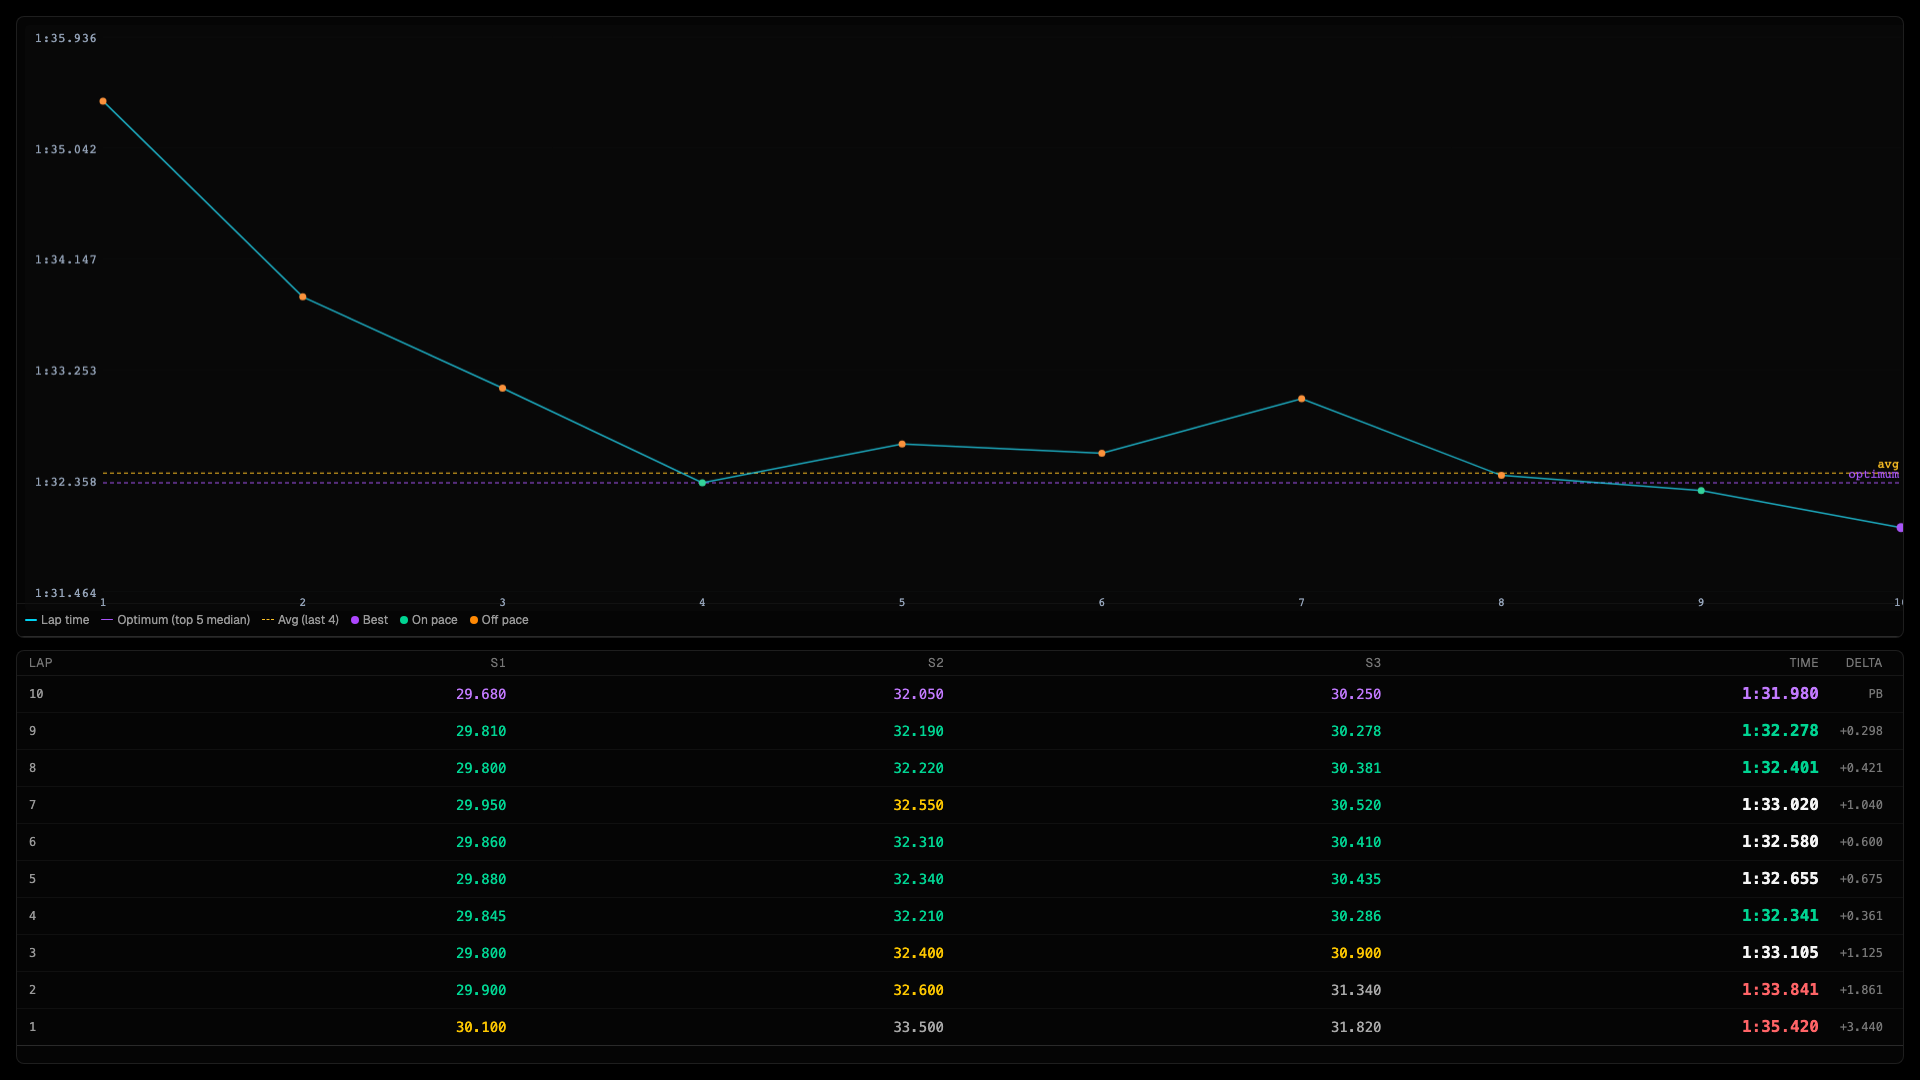
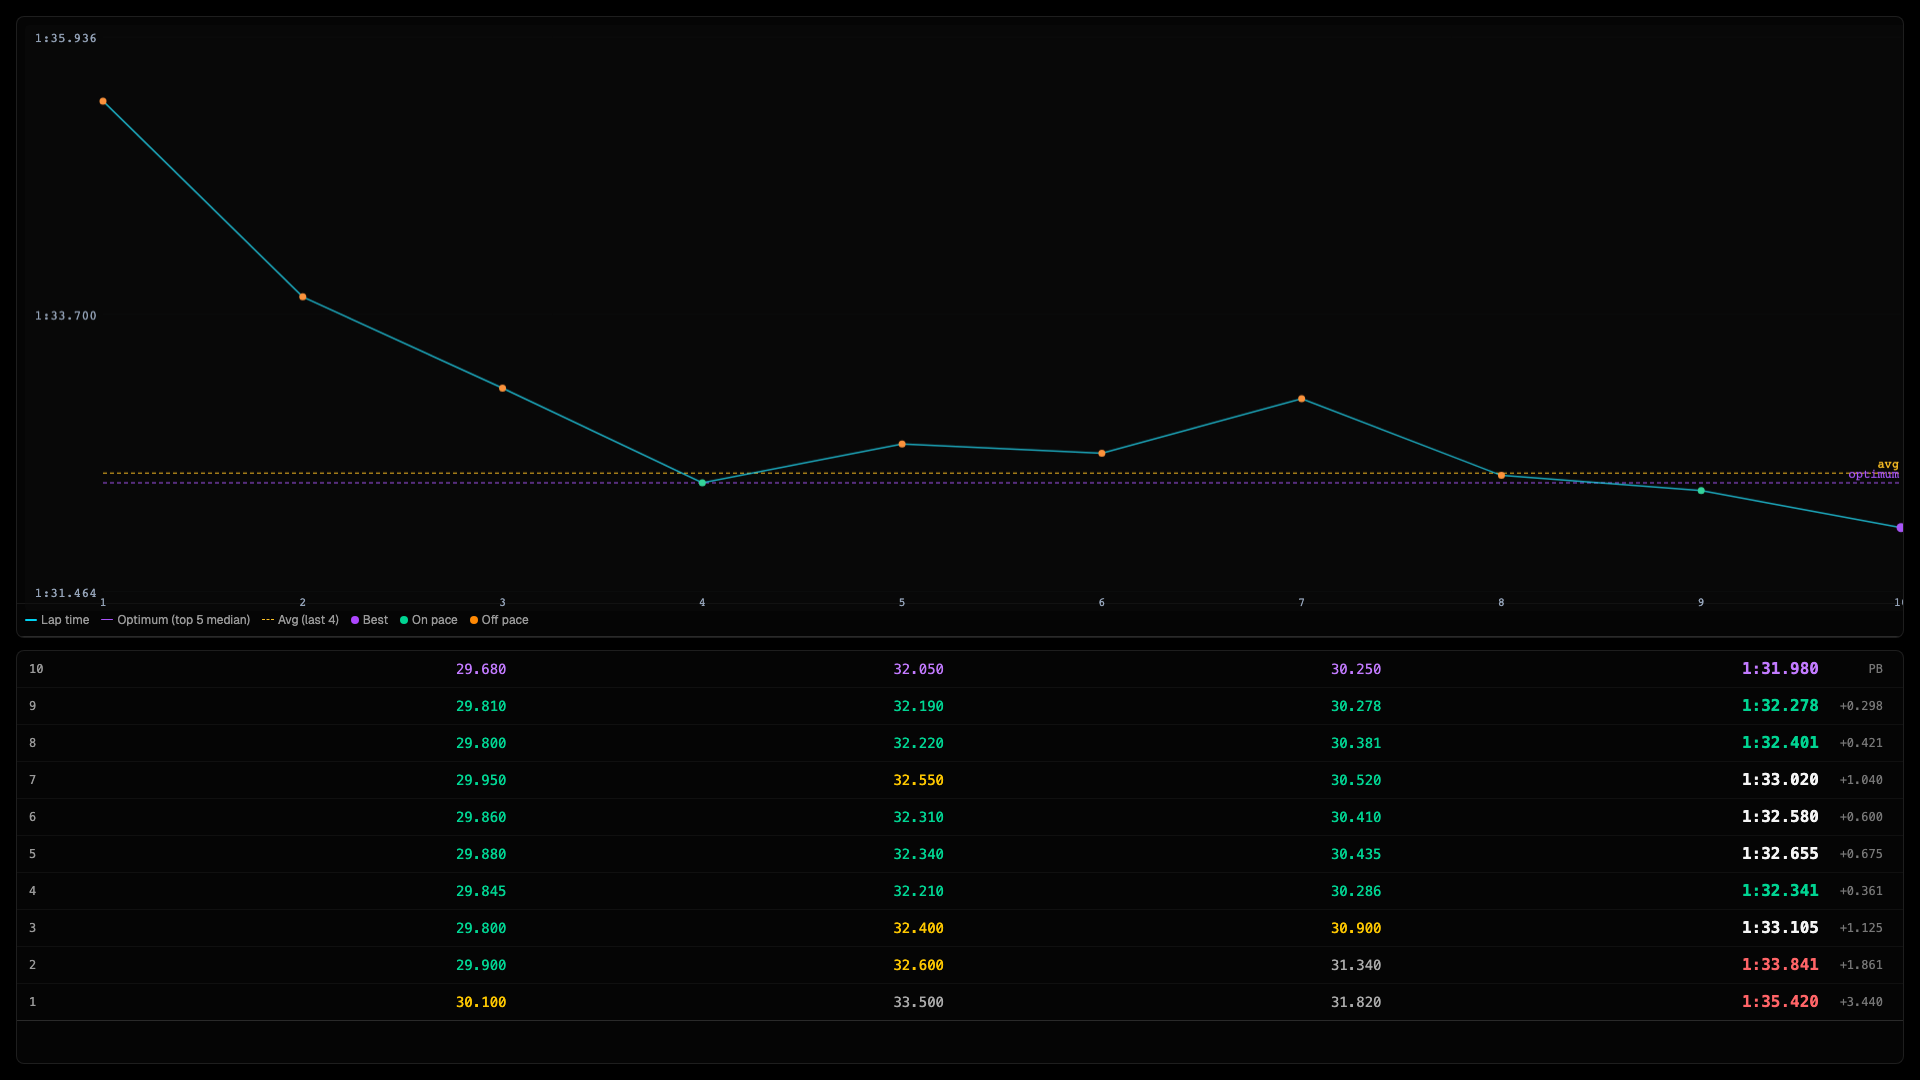
feat(dashes): responsive catalogue preview + combo-2 polish
- Preview box scales to current viewport aspect, capped at 60% so it
  renders at true phone size or smaller
- Hide QR code below lg breakpoint on mobile
- Interactive lap-count slider for combo-2 preview
- combo-2: hide recorded-laps column header, drop inner scroll,
  bump maxLaps to 30
- LapTimeChart: configurable yTicks prop (combo-2 uses 2)

diff --git a/client/src/routes/dash.index.tsx b/client/src/routes/dash.index.tsx
@@ -1,7 +1,7 @@
 import { createFileRoute, Link } from "@tanstack/react-router";
 import { useQuery } from "@tanstack/react-query";
 import { QRCodeSVG } from "qrcode.react";
-import type { ReactNode } from "react";
+import { useEffect, useMemo, useState, type ReactNode } from "react";
 import { ComboDash } from "../components/dashes/ComboDash";
 import { ComboDash2 } from "../components/dashes/ComboDash2";
 import {
@@ -29,31 +29,20 @@ const PREVIEW_RAW_PACKET = {
 // Forza stores tire temps in °F — convert to °C.
 const fToC = (f: number) => ((f - 32) * 5) / 9;
 
-interface DashEntry {
-  slug: string;
+interface DashMeta {
+  slug: "combo-1" | "combo-2";
   title: string;
   description: string;
   href: "/dash/combo-1" | "/dash/combo-2";
-  preview: ReactNode;
 }
 
-const DASHES: DashEntry[] = [
+const DASH_META: DashMeta[] = [
   {
     slug: "combo-1",
     href: "/dash/combo-1",
     title: "Combo Dash 1",
     description:
       "Rev bar + gear/speed/lap tiles, fuel & tire laps-remaining, lap + sector readout, and a live tire grid. Landscape tablet-friendly.",
-    preview: (
-      <ComboDash
-        rawPacket={PREVIEW_RAW_PACKET}
-        packet={fakeForzaDisplayPacket}
-        sectors={fakeSectors}
-        pit={fakePit}
-        unitSystem="metric"
-        toTempC={fToC}
-      />
-    ),
   },
   {
     slug: "combo-2",
@@ -61,15 +50,25 @@ const DASHES: DashEntry[] = [
     title: "Combo Dash 2 — Lap Times & Pace",
     description:
       "Lap timing summary across the top, big lap-time trend chart with optimum and average pace lines, plus live sector splits and recent laps on the side.",
-    preview: (
-      <ComboDash2
-        rawPacket={PREVIEW_RAW_PACKET}
-        allLaps={fakeSessionLaps}
-        sessionLaps={fakeSessionLaps}
-      />
-    ),
   },
 ];
+
+function useViewportSize() {
+  const [size, setSize] = useState(() => ({
+    w: typeof window !== "undefined" ? window.innerWidth : 844,
+    h: typeof window !== "undefined" ? window.innerHeight : 390,
+  }));
+  useEffect(() => {
+    const onResize = () => setSize({ w: window.innerWidth, h: window.innerHeight });
+    window.addEventListener("resize", onResize);
+    window.addEventListener("orientationchange", onResize);
+    return () => {
+      window.removeEventListener("resize", onResize);
+      window.removeEventListener("orientationchange", onResize);
+    };
+  }, []);
+  return size;
+}
 
 function useNetworkInfo() {
   return useQuery<{ lanIps: string[]; port: number }>({
@@ -88,6 +87,40 @@ function DashCatalogue() {
   const { data } = useNetworkInfo();
   const lanIp = data?.lanIps?.[0];
   const port = typeof window !== "undefined" ? window.location.port || data?.port : data?.port;
+  const vp = useViewportSize();
+  const SCALE = 0.6;
+  const maxW = Math.floor(vp.w * SCALE);
+  const maxH = Math.floor(vp.h * SCALE);
+  const previewWidth = `min(100%, ${maxW}px, ${Math.floor((maxH * vp.w) / vp.h)}px)`;
+  const previewAspect = `${vp.w} / ${vp.h}`;
+
+  const [combo2LapCount, setCombo2LapCount] = useState(fakeSessionLaps.length);
+  const combo2Laps = useMemo(
+    () => fakeSessionLaps.slice(0, combo2LapCount),
+    [combo2LapCount],
+  );
+
+  const previewFor = (slug: DashMeta["slug"]): ReactNode => {
+    if (slug === "combo-1") {
+      return (
+        <ComboDash
+          rawPacket={PREVIEW_RAW_PACKET}
+          packet={fakeForzaDisplayPacket}
+          sectors={fakeSectors}
+          pit={fakePit}
+          unitSystem="metric"
+          toTempC={fToC}
+        />
+      );
+    }
+    return (
+      <ComboDash2
+        rawPacket={PREVIEW_RAW_PACKET}
+        allLaps={combo2Laps}
+        sessionLaps={combo2Laps}
+      />
+    );
+  };
 
   return (
     <div className="min-h-screen bg-black text-white p-8">
@@ -110,7 +143,7 @@ function DashCatalogue() {
         </div>
 
         <ul className="grid grid-cols-1 lg:grid-cols-2 gap-6">
-          {DASHES.map((d) => {
+          {DASH_META.map((d) => {
             const url = lanIp && port ? `http://${lanIp}:${port}${d.href}` : null;
             return (
               <li
@@ -119,13 +152,36 @@ function DashCatalogue() {
               >
                 <Link to={d.href} className="block group">
                   <div
-                    className="relative bg-black border-b border-white/10 overflow-hidden"
-                    style={{ aspectRatio: "16/9", transform: "translateZ(0)" }}
+                    className="relative bg-black border-b border-white/10 overflow-hidden mx-auto"
+                    style={{
+                      aspectRatio: previewAspect,
+                      width: previewWidth,
+                      transform: "translateZ(0)",
+                    }}
                   >
-                    <div className="absolute inset-0 pointer-events-none">{d.preview}</div>
+                    <div className="absolute inset-0 pointer-events-none">{previewFor(d.slug)}</div>
                     <div className="absolute inset-0 transition-colors group-hover:bg-white/[0.04]" />
                   </div>
                 </Link>
+                {d.slug === "combo-2" && (
+                  <div className="px-5 pt-3 flex items-center gap-3">
+                    <label className="text-[10px] uppercase tracking-wider text-white/40 font-mono shrink-0">
+                      Laps
+                    </label>
+                    <input
+                      type="range"
+                      min={1}
+                      max={fakeSessionLaps.length}
+                      step={1}
+                      value={combo2LapCount}
+                      onChange={(e) => setCombo2LapCount(Number(e.target.value))}
+                      className="flex-1 accent-app-accent"
+                    />
+                    <span className="text-xs font-mono tabular-nums text-white/60 w-10 text-right">
+                      {combo2LapCount}/{fakeSessionLaps.length}
+                    </span>
+                  </div>
+                )}
                 <div className="p-5 flex gap-4 items-start">
                   <div className="flex-1 min-w-0">
                     <Link to={d.href}>
@@ -137,7 +193,7 @@ function DashCatalogue() {
                     </div>
                   </div>
                   {url && (
-                    <div className="shrink-0 rounded bg-white p-2">
+                    <div className="shrink-0 rounded bg-white p-2 hidden lg:block">
                       <QRCodeSVG value={url} size={96} />
                     </div>
                   )}

diff --git a/client/src/components/dashes/ComboDash2.tsx b/client/src/components/dashes/ComboDash2.tsx
@@ -16,13 +16,13 @@ export function ComboDash2({ rawPacket, allLaps, sessionLaps }: ComboDash2Props)
     <DashShell>
       <div className="h-full w-full grid grid-rows-[3fr_2fr] gap-3 p-4">
         <div className="min-w-0 min-h-0 rounded-md border border-white/10 bg-white/[0.02] overflow-hidden [&_div:has(>h2)]:hidden [&_button]:hidden">
-          <LapTimeChart packet={rawPacket} allLaps={allLaps} />
+          <LapTimeChart packet={rawPacket} allLaps={allLaps} yTicks={2} />
         </div>
 
-        <div className="min-w-0 min-h-0 rounded-md border border-white/10 bg-white/[0.02] overflow-hidden [&_div:has(>h2)]:hidden [&_button]:hidden [&_div.w-16]:hidden">
+        <div className="min-w-0 min-h-0 rounded-md border border-white/10 bg-white/[0.02] overflow-hidden [&_div:has(>h2)]:hidden [&_button]:hidden [&_div.w-16]:hidden [&_.uppercase.tracking-wider]:hidden">
           {trackOrdinal ? (
-            <div className="h-full overflow-y-auto">
-              <RecordedLaps laps={sessionLaps} trackOrdinal={trackOrdinal} maxLaps={20} />
+            <div className="h-full overflow-hidden">
+              <RecordedLaps laps={sessionLaps} trackOrdinal={trackOrdinal} maxLaps={30} />
             </div>
           ) : (
             <div className="h-full flex items-center justify-center text-white/40 text-sm tracking-widest uppercase">

diff --git a/client/src/components/LapTimeChart.tsx b/client/src/components/LapTimeChart.tsx
@@ -14,11 +14,14 @@ export function LapTimeChart({
   packet,
   allLaps = [],
   height,
+  yTicks = 5,
 }: {
   packet: TelemetryPacket | null;
   allLaps?: LapMeta[];
   /** Optional fixed height. If omitted the chart fills its parent via flex. */
   height?: number;
+  /** Number of y-axis intervals (ticks = yTicks + 1). Default 5. */
+  yTicks?: number;
 }) {
   const [liveLaps, setLiveLaps] = useState<{ lap: number; time: number }[]>([]);
   const [hiddenSessionIds, setHiddenSessionIds] = useState<Set<number>>(new Set());
@@ -137,7 +140,7 @@ export function LapTimeChart({
     ctx.font = "13px monospace";
     ctx.fillStyle = "#94a3b8";
     ctx.textAlign = "right";
-    const tickCount = 5;
+    const tickCount = yTicks;
     for (let i = 0; i <= tickCount; i++) {
       const val = minY + (yRange * i) / tickCount;
       const y = topPad + plotH - (i / tickCount) * plotH;
@@ -198,7 +201,7 @@ export function LapTimeChart({
       ctx.textAlign = "center";
       ctx.fillText(`${laps[i].lap}`, x, topPad + plotH + 14);
     }
-  }, [laps, effectiveHeight, containerWidth]);
+  }, [laps, effectiveHeight, containerWidth, yTicks]);
 
   return (
     <div className="h-full flex flex-col border-b border-app-border">
